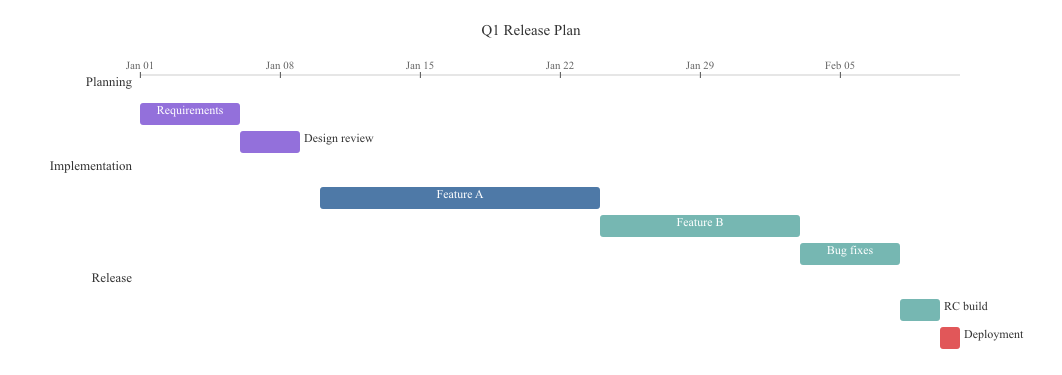
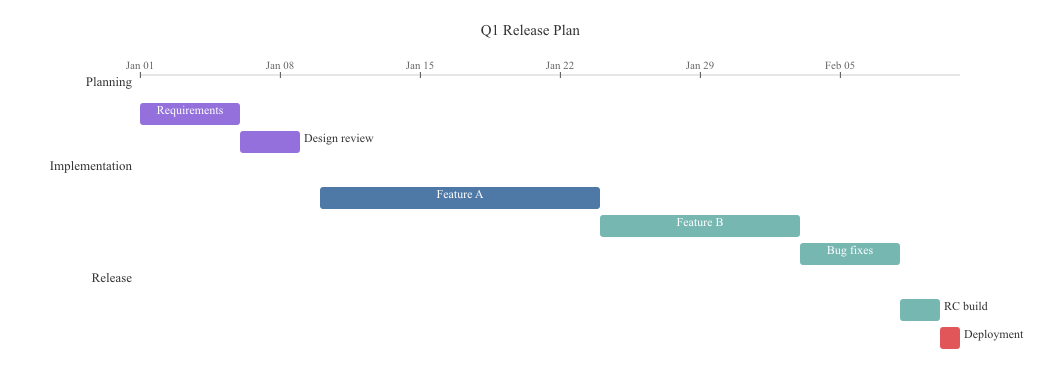
pie, gantt: measure labels with textmeasure.Ruler
Both renderers used the heuristic estimateLabelWidth(s, fontSize) =
len(s) × (fontSize - 1) × 0.55 to size their layouts. That undercounts
narrow glyphs and overcounts wide ones, and uses byte length rather
than rune count so multi-byte UTF-8 labels would overshoot.

Switch both to textmeasure.Ruler.Measure with the same font size each
renderer's text element actually uses (fontSize - 1). Drops the local
estimateLabelWidth + avgCharWidth constant.

Snapshot regen confirms minor layout-spacing drift in both example sets;
visually verified — pie outside-labels still don't collide with the
legend, gantt label inside/outside placement still correct.

diff --git a/pkg/renderer/gantt/renderer.go b/pkg/renderer/gantt/renderer.go
@@ -6,6 +6,7 @@ import (
 	"time"
 
 	"github.com/julianshen/mmgo/pkg/diagram"
+	"github.com/julianshen/mmgo/pkg/textmeasure"
 )
 
 const (
@@ -18,13 +19,8 @@ const (
 	sectionLabelW   = 120.0
 	dayWidth        = 20.0
 
-	// avgCharWidth approximates the per-character width as a fraction
-	// of font size for the bundled font. Used to estimate label
-	// extents without instantiating a text ruler. See gitgraph/sankey
-	// for the same heuristic.
-	avgCharWidth = 0.55
 	// labelInsideSlack is the minimum extra bar width (in pixels)
-	// beyond the estimated label width before the label fits inside.
+	// beyond the measured label width before the label fits inside.
 	labelInsideSlack = 8.0
 	// labelOutsideGap is the gap between the bar's right edge and an
 	// outside label.
@@ -33,13 +29,6 @@ const (
 	// outside label so it doesn't clip at the right edge.
 	labelEdgeMargin = 12.0
 )
-
-// estimateLabelWidth approximates the rendered width of name at the
-// given font size. Used by both the viewBox sizing pass and the
-// per-task inside/outside label decision.
-func estimateLabelWidth(name string, fontSize float64) float64 {
-	return float64(len(name)) * (fontSize - 1) * avgCharWidth
-}
 
 type Options struct {
 	FontSize float64
@@ -57,6 +46,12 @@ func Render(d *diagram.GanttDiagram, opts *Options) ([]byte, error) {
 	if opts != nil && opts.FontSize > 0 {
 		fontSize = opts.FontSize
 	}
+
+	ruler, err := textmeasure.NewDefaultRuler()
+	if err != nil {
+		return nil, fmt.Errorf("gantt render: text measurer: %w", err)
+	}
+	defer func() { _ = ruler.Close() }()
 
 	minDate, maxDate := dateRange(d.Tasks)
 	totalDays := maxDate.Sub(minDate).Hours() / 24
@@ -89,7 +84,7 @@ func Render(d *diagram.GanttDiagram, opts *Options) ([]byte, error) {
 		if barW < 2 {
 			barW = 2
 		}
-		labelW := estimateLabelWidth(task.Name, fontSize)
+		labelW, _ := ruler.Measure(task.Name, fontSize-1)
 		if labelW+labelInsideSlack > barW {
 			if e := chartX + endOffset + labelOutsideGap + labelW; e > rightExtent {
 				rightExtent = e
@@ -149,7 +144,8 @@ func Render(d *diagram.GanttDiagram, opts *Options) ([]byte, error) {
 		// Place the label outside the bar (right, dark) when the bar
 		// is too narrow to hold it without spillover; inside the bar
 		// (centered, white) otherwise.
-		if estimateLabelWidth(task.Name, fontSize)+labelInsideSlack > barW {
+		labelW2, _ := ruler.Measure(task.Name, fontSize-1)
+		if labelW2+labelInsideSlack > barW {
 			children = append(children, &text{
 				X: svgFloat(bx + barW + labelOutsideGap), Y: svgFloat(by + barH/2),
 				Anchor: "start", Dominant: "central",

diff --git a/pkg/renderer/pie/renderer.go b/pkg/renderer/pie/renderer.go
@@ -6,6 +6,7 @@ import (
 	"math"
 
 	"github.com/julianshen/mmgo/pkg/diagram"
+	"github.com/julianshen/mmgo/pkg/textmeasure"
 )
 
 const (
@@ -44,6 +45,12 @@ func Render(d *diagram.PieDiagram, opts *Options) ([]byte, error) {
 		fontSize = opts.FontSize
 	}
 
+	ruler, err := textmeasure.NewDefaultRuler()
+	if err != nil {
+		return nil, fmt.Errorf("pie render: text measurer: %w", err)
+	}
+	defer func() { _ = ruler.Close() }()
+
 	total := 0.0
 	for _, s := range d.Slices {
 		total += s.Value
@@ -58,7 +65,7 @@ func Render(d *diagram.PieDiagram, opts *Options) ([]byte, error) {
 	if total > 0 && len(d.Slices) > 1 {
 		for _, s := range d.Slices {
 			if s.Value/total < smallSliceThreshold {
-				w := estimateLabelWidth(formatSliceLabel(s, total, d.ShowData), fontSize)
+				w, _ := ruler.Measure(formatSliceLabel(s, total, d.ShowData), fontSize-1)
 				if w > outsideGutter {
 					outsideGutter = w
 				}
@@ -222,9 +229,3 @@ func formatSliceLabel(s diagram.Slice, total float64, showData bool) string {
 	return pct
 }
 
-// estimateLabelWidth approximates the rendered width of s in pixels at
-// the given font size. Same heuristic the gantt renderer uses; lifting
-// to a shared helper is tracked as a follow-up.
-func estimateLabelWidth(s string, fontSize float64) float64 {
-	return float64(len(s)) * (fontSize - 1) * 0.55
-}
